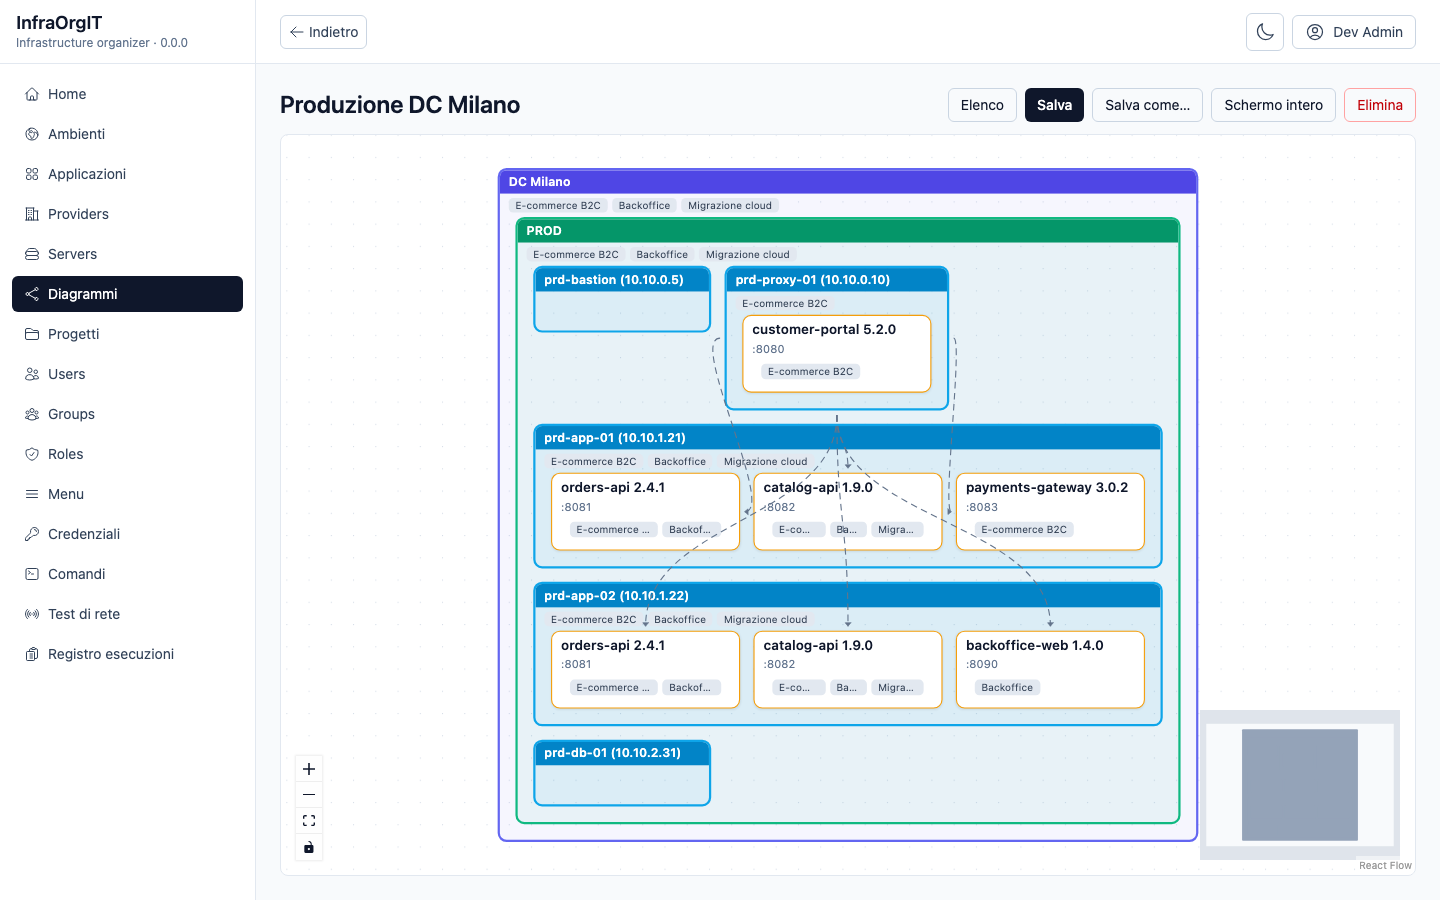
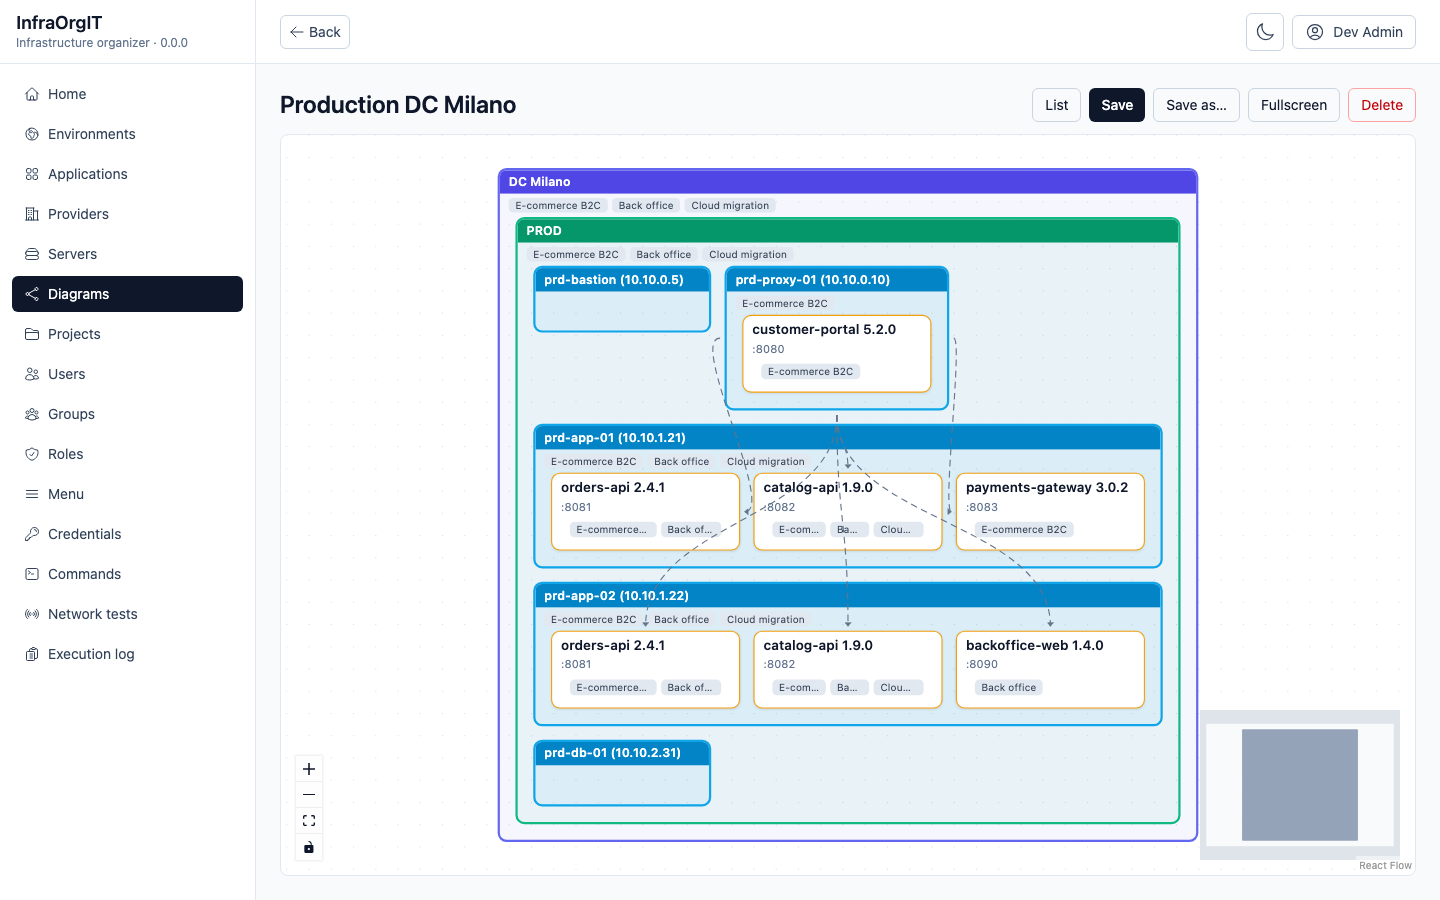
docs: rewrite the README around the product
Open with what InfraOrgIT does, the architecture and the feature list,
then the console, network tests and diagram recordings plus refreshed
screenshots from the fictitious Acme instance.

diff --git a/README.md b/README.md
@@ -1,29 +1,57 @@
-# AllInfraOrgIT
+# InfraOrgIT
 
-InfraOrgIT workspace: meta repository with architecture decisions, shared configuration, orchestration and release lock.
+InfraOrgIT maps an organization's IT infrastructure and lets authorized people operate it from the browser: which providers and environments exist, which servers live in them, which application versions run where, how traffic reaches them through proxies, and who may act on each environment.
 
-## What it does
+![Diagram of the production environment with servers, deployed applications and proxy routes](docs/screenshots/diagram.png)
 
-InfraOrgIT maps an organization's IT infrastructure and lets authorized people operate it from one web app: which providers and environments exist, which servers live in them, which application versions run where, how traffic reaches them through proxies, and who may act on each environment.
+## Features
 
 - **Inventory**: providers (datacenters, clouds), environments (PRE, INT, PROD…) and their combinations; servers with IP, hostname, SSH port and jump host.
 - **Application catalog**: applications with versions, APIs and query parameters, also imported from OpenAPI 3.x or Swagger 2.0; projects group applications. A deployment binds an application version to a server and port. An API can be called server-side on a chosen environment, with that environment's hostname and API keys, and the call can be saved to a personal history.
 - **Topology and diagrams**: proxy connections between servers with their routes, drawn as an interactive diagram (provider → environment → server → deployed application) filtered by provider, environment or project, with saved layouts.
-- **Remote management**: SSH credentials encrypted with AES-GCM, host key pinned on first connection, web SSH console, command templates with `{{Name}}` placeholders, application actions (restart, logs, health check) and network reachability tests; every run is recorded in an audit log.
+- **Remote management**: web SSH console with several sessions docked at the bottom of the page and reconnection; SSH credentials encrypted with AES-GCM and host key pinned on first connection; command templates with `{{Name}}` placeholders and application actions (restart, logs, health check); network reachability tests, all or a selection, run from the server itself. Every run is recorded in an audit log.
 - **Access control**: Keycloak login through a backend-for-frontend, no token in the browser; users, groups and roles. `SystemAdmin` manages master data, `ServerAdmin` and `ServerOperator` are granted to groups per environment, and the side menu shows only the allowed entries.
+- **Interface**: Italian and English, light and dark theme.
 - **Legacy import**: one-shot importer from the previous system's MySQL database or from JSON fixtures.
 
-Screenshots from a local instance with fictitious data:
+## See it in action
 
-| Topology diagram | Servers |
+Recordings and screenshots come from a local instance with fictitious data (the "Acme" company); `pre-app-01` is a real SSH server in that instance.
+
+**SSH console**
+
+![SSH session on pre-app-01: hostname, uptime, disk usage, application log and health endpoint](docs/screenshots/console.gif)
+
+**Network tests and application actions**
+
+![Reachability tests run from pre-app-01 with OK and KO results, then the Health check and Recent logs actions of orders-api](docs/screenshots/tests-actions.gif)
+
+**Diagram**
+
+![Zoom, pan and fit on the production diagram](docs/screenshots/diagram.gif)
+
+| Servers | Application |
 |---|---|
-| ![Diagram of the production environment with servers, deployed applications and proxy routes](docs/screenshots/diagram.png) | ![Server list with environment, IP, SSH port and jump host](docs/screenshots/servers.png) |
-| **Application** | **Server** |
-| ![Application with versions, APIs and deployments](docs/screenshots/application.png) | ![Server detail with SSH console, credential and reachability tests](docs/screenshots/server.png) |
-| **Execution log** | |
-| ![Audit log of remote actions and reachability tests](docs/screenshots/executions.png) | |
+| ![Server list with environment, IP, SSH port and jump host](docs/screenshots/servers.png) | ![Application with versions, APIs and deployments](docs/screenshots/application.png) |
+| **Server** | **Execution log** |
+| ![Server detail with SSH credential and reachability tests](docs/screenshots/server.png) | ![Audit log of console sessions, actions and reachability tests](docs/screenshots/executions.png) |
+
+## Architecture
+
+```
+browser ──► Caddy ─┬─ /             SPA: React 19, Vite, React Flow, xterm.js
+                   ├─ /api, /auth   API: .NET 10, EF Core ──► MySQL 8.4
+                   │                     └─ SSH (SSH.NET) ──► managed servers
+                   └─ /realms       Keycloak 26 ──► MySQL 8.4
+```
+
+- One origin for SPA, API and Keycloak: the session is an HttpOnly cookie, every mutation is checked for CSRF and `Origin`.
+- The backend owns the schema (EF Core migrations), RBAC and the OpenAPI contract the frontend is typed from.
+- Health checks and optional OpenTelemetry export (OTLP).
 
 ## Workspace repositories
+
+This repository is the workspace meta repository: architecture decisions, shared configuration, orchestration and release lock.
 
 | Repository | Content |
 |---|---|
@@ -42,22 +70,6 @@ workspace/
   InfraOrgITDocker/
 ```
 
-## Status
-
-Phase 8 completed on the technical perimeter — 2026-10-27; no release executed yet. Backend, frontend, admin/RBAC, remote management and the legacy importer (MySQL source or JSON fixtures) are working; the application database is initialized with schema, base data and the installation data from `InfraOrgITDocker/init/mysql`. `full` profile with API, migrations, Keycloak production mode and Caddy; `make ci` and 5 E2E tests green. Still open: rehearsal on a representative dataset and running `make release`.
-
-## Contents
-
-| Path | Purpose |
-|---|---|
-| `docs/` | ERD, data dictionary, permissions, UX, legacy mapping, OpenAPI |
-| `docs/adr/` | ADRs 001–009 and template |
-| `docs/backlog.md` | open work and its verification |
-| `scripts/` | `dev.sh` and `env.sh` for local development |
-| `tools/graphify/` | graphify workspace configuration |
-| `Makefile` | orchestration for infra, API, web, tests and migrations |
-| `versions.lock` | commit SHAs and images of the application repos for reproducible releases |
-
 ## Quick start
 
 Prerequisites: Docker with Compose v2, .NET SDK 10, Node 24, Yarn 1, `make`.
@@ -68,6 +80,7 @@ git clone https://github.com/SenseiKiritof/InfraOrgITApi.git
 git clone https://github.com/SenseiKiritof/InfraOrgITWeb.git
 git clone https://github.com/SenseiKiritof/InfraOrgITDocker.git
 cp InfraOrgITDocker/.env.example InfraOrgITDocker/.env
+cd AllInfraOrgIT
 make dev
 ```
 
@@ -94,6 +107,23 @@ make down
 ```
 
 `make e2e` uses `http://localhost:3000`; `make e2e-full` uses `https://localhost` and requires the `full` profile.
+
+## Status
+
+Phase 8 completed on the technical perimeter — 2026-10-27; no release executed yet. Backend, frontend, admin/RBAC, remote management and the legacy importer (MySQL source or JSON fixtures) are working; the application database is initialized with schema, base data and the installation data from `InfraOrgITDocker/init/mysql`. `full` profile with API, migrations, Keycloak production mode and Caddy; `make ci` and 5 E2E tests green. Still open: rehearsal on a representative dataset and running `make release`.
+
+## Contents
+
+| Path | Purpose |
+|---|---|
+| `docs/` | ERD, data dictionary, permissions, UX, legacy mapping, OpenAPI |
+| `docs/adr/` | ADRs 001–009 and template |
+| `docs/backlog.md` | open work and its verification |
+| `docs/screenshots/` | screenshots and recordings used in this README |
+| `scripts/` | `dev.sh` and `env.sh` for local development |
+| `tools/graphify/` | graphify workspace configuration |
+| `Makefile` | orchestration for infra, API, web, tests and migrations |
+| `versions.lock` | commit SHAs and images of the application repos for reproducible releases |
 
 ## Release and publishing
 
